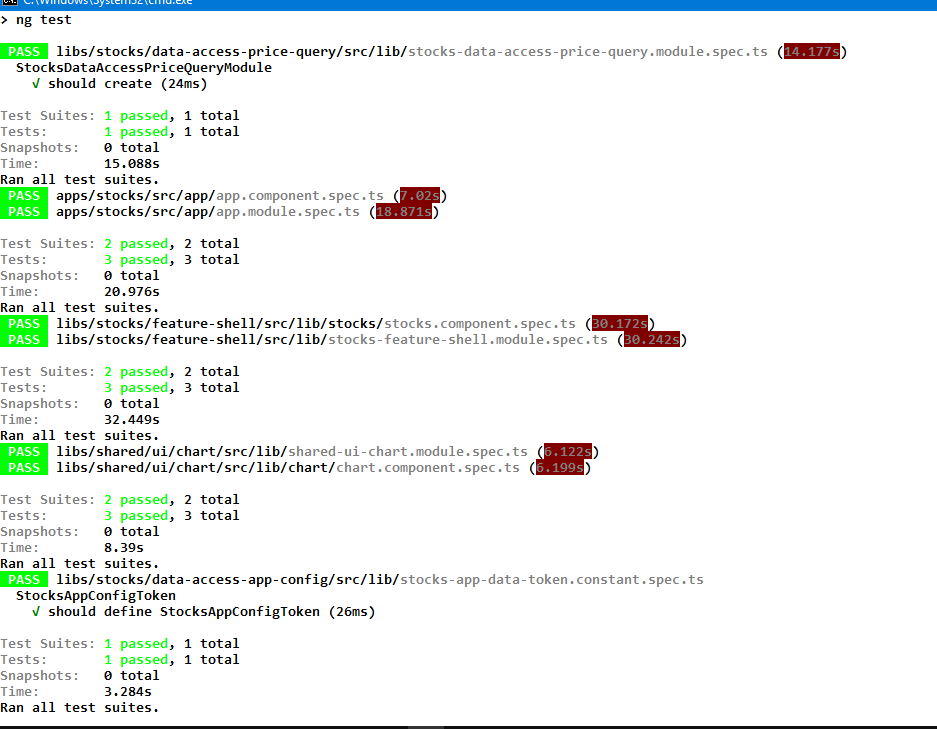
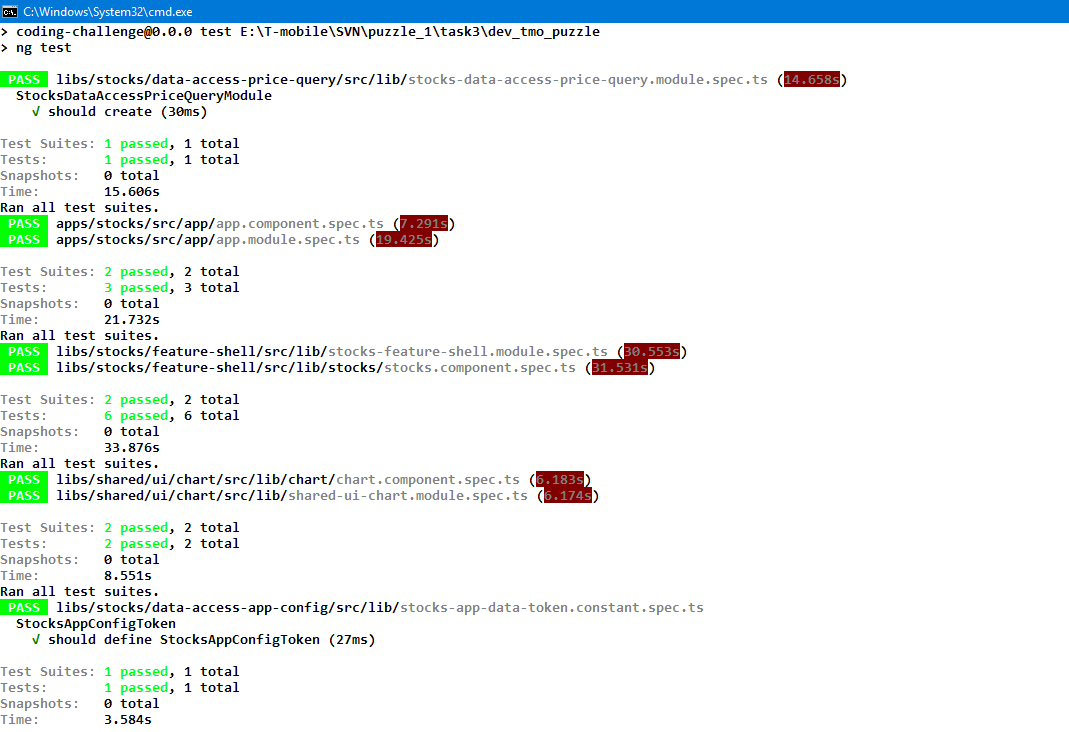
Task 3 - Changes for task 3

Changed region(s): [[0.0, 0.0, 1.0, 1.0]]

diff --git a/libs/stocks/feature-shell/src/lib/stocks/stocks.component.spec.ts b/libs/stocks/feature-shell/src/lib/stocks/stocks.component.spec.ts
@@ -1,12 +1,13 @@
-import { async, ComponentFixture, TestBed } from '@angular/core/testing';
+import { async, ComponentFixture, TestBed, tick } from '@angular/core/testing';
 import { ReactiveFormsModule } from '@angular/forms';
 import { StocksComponent } from './stocks.component';
-import { ChangeDetectionStrategy } from '@angular/core';
 import {
   MatFormFieldModule,
   MatInputModule,
   MatSelectModule,
-  MatButtonModule
+  MatButtonModule,
+  MatDatepickerModule,
+  MatNativeDateModule
 } from '@angular/material';
 import { SharedUiChartModule } from '@coding-challenge/shared/ui/chart';
 import { StocksDataAccessPriceQueryModule } from '@coding-challenge/stocks/data-access-price-query';
@@ -16,12 +17,28 @@ import { StocksAppConfigToken } from '@coding-challenge/stocks/data-access-app-c
 import { DataPersistence } from '@nrwl/nx';
 import { BrowserAnimationsModule } from '@angular/platform-browser/animations';
 import { assert } from 'chai';
-
+import { fakeAsync } from '@angular/core/testing';
+import { of } from 'rxjs';
 import { PriceQueryFacade } from '@coding-challenge/stocks/data-access-price-query';
 
 describe('StocksComponent', () => {
   let component: StocksComponent;
   let fixture: ComponentFixture<StocksComponent>;
+  let service: PriceQueryFacade;
+  let mockPriceQuery = [
+    {
+      date: '2000-10-20',
+      close: 12
+    },
+    {
+      date: '2000-10-20',
+      close: 12
+    },
+    {
+      date: '2000-10-20',
+      close: 12
+    }
+  ];
   beforeEach(async(() => {
     TestBed.configureTestingModule({
       declarations: [StocksComponent],
@@ -35,7 +52,9 @@ describe('StocksComponent', () => {
         StocksDataAccessPriceQueryModule,
         StoreModule.forRoot({}),
         EffectsModule.forRoot([]),
-        BrowserAnimationsModule
+        BrowserAnimationsModule,
+        MatDatepickerModule,
+        MatNativeDateModule
       ],
       providers: [
         {
@@ -47,16 +66,25 @@ describe('StocksComponent', () => {
           }
         },
         DataPersistence,
-        PriceQueryFacade
+        {
+          provide: PriceQueryFacade,
+          useValue: {
+            fetchQuote: jest.fn(),
+            priceQueries$: of(mockPriceQuery)
+          }
+        },
+        MatDatepickerModule
       ]
-    }).compileComponents();
+    })
+      .compileComponents();
   }));
 
   beforeEach(() => {
     fixture = TestBed.createComponent(StocksComponent);
     component = fixture.componentInstance;
+    // component.OnChange = jest.fn();
+    service = TestBed.get(PriceQueryFacade);
     component.stockPickerForm.controls['symbol'].setValue('aapl');
-    component.stockPickerForm.controls['period'].setValue('2m');
     fixture.detectChanges();
   });
 
@@ -65,8 +93,29 @@ describe('StocksComponent', () => {
   });
 
   it('should call fetchQuote service', () => {
-    //component.fetchQuote();
+    fixture.detectChanges();
     assert.isTrue(component.stockPickerForm.valid);
+  });
+
+  it('should call fetchQuote on form edit event', fakeAsync(() => {
+    component.stockPickerForm.controls['symbol'].setValue('aapl222');
+    component.stockPickerForm.controls['startDate'].setValue(new Date());
+    component.stockPickerForm.controls['endDate'].setValue(new Date());
+    tick(500);
+    fixture.detectChanges();
+    const spy = jest.spyOn(service, 'fetchQuote');
+    assert.isTrue(component.stockPickerForm.valid);
+    expect(spy).toHaveBeenCalled();
+  }));
+
+  it('should change the end date if start date is greater than ', () => {
+    const testDateValue = new Date('01/10/2020');
+    component.stockPickerForm.controls['startDate'].setValue(testDateValue);
+    component.stockPickerForm.controls['endDate'].setValue(new Date('01/10/2019'));
+    component.OnChange({ value : testDateValue});
+    fixture.detectChanges();
+    expect(component.stockPickerForm.value.endDate).toEqual(testDateValue);
+    expect(component.minEndDate).toEqual(testDateValue);
   });
 
   it('should unsubscribe on ngOnDestroy', () => {

diff --git a/libs/stocks/feature-shell/src/lib/stocks/stocks.component.ts b/libs/stocks/feature-shell/src/lib/stocks/stocks.component.ts
@@ -4,6 +4,7 @@ import { PriceQueryFacade } from '@coding-challenge/stocks/data-access-price-que
 import {STOCK_CONST, DropDownDateRange} from '../stock.constant';
 import { debounceTime,takeUntil } from 'rxjs/operators';
 import { Subject} from 'rxjs'
+import moment from 'moment';
 @Component({
   selector: 'coding-challenge-stocks',
   templateUrl: './stocks.component.html',
@@ -12,16 +13,23 @@ import { Subject} from 'rxjs'
 export class StocksComponent implements OnInit, OnDestroy {
   stockPickerForm: FormGroup;
   quotes$ = this.priceQuery.priceQueries$;
+  maxDate = moment().toDate();
+  minEndDate: Date = new Date();
   destroy: Subject<void> = new Subject<void>();
   timePeriods :Array<DropDownDateRange> =  STOCK_CONST.DateRange_Value.sort((a,b) => {
     return a.order - b.order;
   })
   constructor(private fb: FormBuilder, private priceQuery: PriceQueryFacade) {
     this.stockPickerForm = fb.group({
-      symbol: [null, Validators.required],
-      period: [null, Validators.required]
+      symbol: ['', Validators.required],
+      startDate: [
+        moment()
+          .subtract(1, 'years')
+          .toDate()
+      ],
+      endDate: [new Date()]
     });
-    this.stockPickerForm.get('period').setValue('1m');
+    this.minEndDate = this.stockPickerForm.value.startDate;
   }
 
   ngOnInit() {
@@ -34,12 +42,20 @@ export class StocksComponent implements OnInit, OnDestroy {
 
   fetchQuote(value) {
     if (this.stockPickerForm.valid) {
-      const { symbol, period } = value
-      this.priceQuery.fetchQuote(symbol, period);
+      const { symbol, startDate, endDate } = value;
+      this.priceQuery.fetchQuote(symbol, {
+        startDate: startDate,
+        endDate: endDate
+      });
     }
   }
-
-  ngOnDestroy(){
+  OnChange(event: any) {
+    if (event.value > this.stockPickerForm.value.endDate) {
+      this.stockPickerForm.controls['endDate'].setValue(event.value);
+    }
+    this.minEndDate = this.stockPickerForm.value.startDate;
+  }
+  ngOnDestroy() {
     this.destroy.next();
     this.destroy.complete();
   }

diff --git a/libs/stocks/data-access-price-query/src/lib/+state/price-query.effects.ts b/libs/stocks/data-access-price-query/src/lib/+state/price-query.effects.ts
@@ -15,7 +15,7 @@ import {
 } from './price-query.actions';
 import { PriceQueryPartialState } from './price-query.reducer';
 import { PriceQueryResponse } from './price-query.type';
-
+import moment from 'moment';
 @Injectable()
 export class PriceQueryEffects {
   @Effect() loadPriceQuery$ = this.dataPersistence.fetch(
@@ -25,14 +25,27 @@ export class PriceQueryEffects {
         return this.httpClient
           .get(
             `${this.env.apiURL}/beta/stock/${action.symbol}/chart/${
-              action.period
+              this.env.period
             }?token=${this.env.apiKey}`
           )
           .pipe(
-            map(resp => new PriceQueryFetched(resp as PriceQueryResponse[]))
+            map(resp => {
+              if (action.dateRange) {
+                return new PriceQueryFetched(
+                  (resp as PriceQueryResponse[]).filter(
+                    value =>
+                      moment(value.date, STOCK_CONSTANT.API_DATE_FORMAT).toDate() >=
+                        action.dateRange.startDate &&
+                      moment(value.date, STOCK_CONSTANT.API_DATE_FORMAT).toDate() <=
+                        action.dateRange.endDate
+                  )
+                );
+              } else {
+                return new PriceQueryFetched(resp as PriceQueryResponse[]);
+              }
+            })
           );
       },
-
       onError: (action: FetchPriceQuery, error) => {
         return new PriceQueryFetchError(error);
       }
@@ -45,3 +58,7 @@ export class PriceQueryEffects {
     private dataPersistence: DataPersistence<PriceQueryPartialState>
   ) {}
 }
+
+export const STOCK_CONSTANT: any = {
+  API_DATE_FORMAT : 'YYYY-MM-DD'
+};

diff --git a/libs/stocks/feature-shell/src/lib/stocks/stocks.component.html b/libs/stocks/feature-shell/src/lib/stocks/stocks.component.html
@@ -1,5 +1,5 @@
 <form [formGroup]="stockPickerForm" class="tmo-sock-form">
-  <mat-form-field>
+  <mat-form-field class="symbolInput">
     <input
       matInput
       placeholder="Symbol e.g AAPL"
@@ -16,17 +16,38 @@
       >
     </mat-error>
   </mat-form-field>
-
-  <mat-form-field>
-    <mat-label>Favorite time period</mat-label>
-    <mat-select formControlName="period">
-      <mat-option
-        *ngFor="let timePeriod of timePeriods"
-        [value]="timePeriod.value"
-      >
-        {{ timePeriod.viewValue }}
-      </mat-option>
-    </mat-select>
+  <mat-form-field class="calendar">
+    <input
+      matInput
+      [matDatepicker]="startdtPicker"
+      id="startDate"
+      (dateChange)="OnChange($event)"
+      placeholder="From Date"
+      readonly
+      formControlName="startDate"
+      [max]="maxDate"
+    />
+    <mat-datepicker-toggle
+      matSuffix
+      [for]="startdtPicker"
+    ></mat-datepicker-toggle>
+    <mat-datepicker #startdtPicker></mat-datepicker>
+  </mat-form-field>
+  <mat-form-field class="calendar">
+    <input
+      matInput
+      [matDatepicker]="endDtPicker"
+      placeholder="To Date"
+      readonly
+      [min]='minEndDate'
+      formControlName="endDate"
+      [max]="maxDate"
+    />
+    <mat-datepicker-toggle
+      matSuffix
+      [for]="endDtPicker"
+    ></mat-datepicker-toggle>
+    <mat-datepicker #endDtPicker></mat-datepicker>
   </mat-form-field>
 </form>
 

diff --git a/libs/stocks/data-access-price-query/src/lib/+state/price-query.facade.ts b/libs/stocks/data-access-price-query/src/lib/+state/price-query.facade.ts
@@ -3,8 +3,8 @@ import { select, Store } from '@ngrx/store';
 import { FetchPriceQuery } from './price-query.actions';
 import { PriceQueryPartialState } from './price-query.reducer';
 import { getSelectedSymbol, getAllPriceQueries } from './price-query.selectors';
-import { map, skip } from 'rxjs/operators';
-
+import { map } from 'rxjs/operators';
+import { DateRange } from './price-query.type';
 @Injectable()
 export class PriceQueryFacade {
   selectedSymbol$ = this.store.pipe(select(getSelectedSymbol));
@@ -16,8 +16,7 @@ export class PriceQueryFacade {
   );
 
   constructor(private store: Store<PriceQueryPartialState>) {}
-
-  fetchQuote(symbol: string, period: string) {
-    this.store.dispatch(new FetchPriceQuery(symbol, period));
+  fetchQuote(symbol: string, dateRange: DateRange) {
+    this.store.dispatch(new FetchPriceQuery(symbol, dateRange));
   }
 }

diff --git a/libs/stocks/feature-shell/src/lib/stocks-feature-shell.module.ts b/libs/stocks/feature-shell/src/lib/stocks-feature-shell.module.ts
@@ -4,7 +4,9 @@ import {
   MatFormFieldModule,
   MatInputModule,
   MatSelectModule,
-  MatButtonModule
+  MatButtonModule,
+  MatDatepickerModule,
+  MatNativeDateModule 
 } from '@angular/material';
 import { RouterModule } from '@angular/router';
 import { SharedUiChartModule } from '@coding-challenge/shared/ui/chart';
@@ -22,8 +24,11 @@ import { ReactiveFormsModule } from '@angular/forms';
     MatInputModule,
     MatSelectModule,
     MatButtonModule,
-    SharedUiChartModule
+    SharedUiChartModule,
+    MatDatepickerModule,
+    MatNativeDateModule ,
   ],
-  declarations: [StocksComponent]
+  declarations: [StocksComponent],
+  providers: [MatNativeDateModule ]
 })
 export class StocksFeatureShellModule {}

diff --git a/libs/stocks/data-access-price-query/src/lib/+state/price-query.actions.ts b/libs/stocks/data-access-price-query/src/lib/+state/price-query.actions.ts
@@ -1,5 +1,5 @@
 import { Action } from '@ngrx/store';
-import { PriceQueryResponse } from './price-query.type';
+import { PriceQueryResponse, DateRange } from './price-query.type';
 
 export enum PriceQueryActionTypes {
   SelectSymbol = 'priceQuery.selectSymbol',
@@ -10,7 +10,7 @@ export enum PriceQueryActionTypes {
 
 export class FetchPriceQuery implements Action {
   readonly type = PriceQueryActionTypes.FetchPriceQuery;
-  constructor(public symbol: string, public period: string) {}
+  constructor(public symbol: string, public dateRange: DateRange) {}
 }
 
 export class PriceQueryFetchError implements Action {

diff --git a/apps/stocks/src/environments/environment.ts b/apps/stocks/src/environments/environment.ts
@@ -7,7 +7,8 @@ import { StocksAppConfig } from '@coding-challenge/stocks/data-access-app-config
 export const environment: StocksAppConfig = {
   production: false,
   apiKey: 'Tpk_8113547921f04e1b9ba32ba8d2bc3060',
-  apiURL: 'https://sandbox.iexapis.com'
+  apiURL: 'https://sandbox.iexapis.com',
+  period: 'max'
 };
 
 /*

diff --git a/apps/stocks/src/environments/environment.prod.ts b/apps/stocks/src/environments/environment.prod.ts
@@ -3,5 +3,6 @@ import { StocksAppConfig } from '@coding-challenge/stocks/data-access-app-config
 export const environment: StocksAppConfig = {
   production: true,
   apiKey: '',
-  apiURL: 'https://sandbox.iexapis.com'
+  apiURL: 'https://sandbox.iexapis.com',
+  period: ''
 };

diff --git a/libs/stocks/data-access-price-query/src/index.ts b/libs/stocks/data-access-price-query/src/index.ts
@@ -1,3 +1,4 @@
 export * from './lib/+state/price-query.facade';
 export * from './lib/+state/price-query.selectors';
 export * from './lib/stocks-data-access-price-query.module';
+export * from './lib/+state/price-query.type';

diff --git a/libs/stocks/feature-shell/src/lib/stocks/stocks.component.css b/libs/stocks/feature-shell/src/lib/stocks/stocks.component.css
@@ -6,7 +6,10 @@ mat-form-field {
   margin-bottom: 20px;
 }
 
-.hint-label{
-  margin-bottom: 20px;
-  color:gray;
+.symbolInput{
+  margin-bottom: 15px;
+}
+
+.calendar{
+  width: 200px;
 }

diff --git a/libs/stocks/data-access-price-query/src/lib/+state/price-query.type.ts b/libs/stocks/data-access-price-query/src/lib/+state/price-query.type.ts
@@ -29,3 +29,7 @@ export type PriceQueryResponse = {
   label: string;
   changeOverTime: number;
 };
+export interface DateRange  {
+  startDate: Date;
+  endDate: Date;
+}
